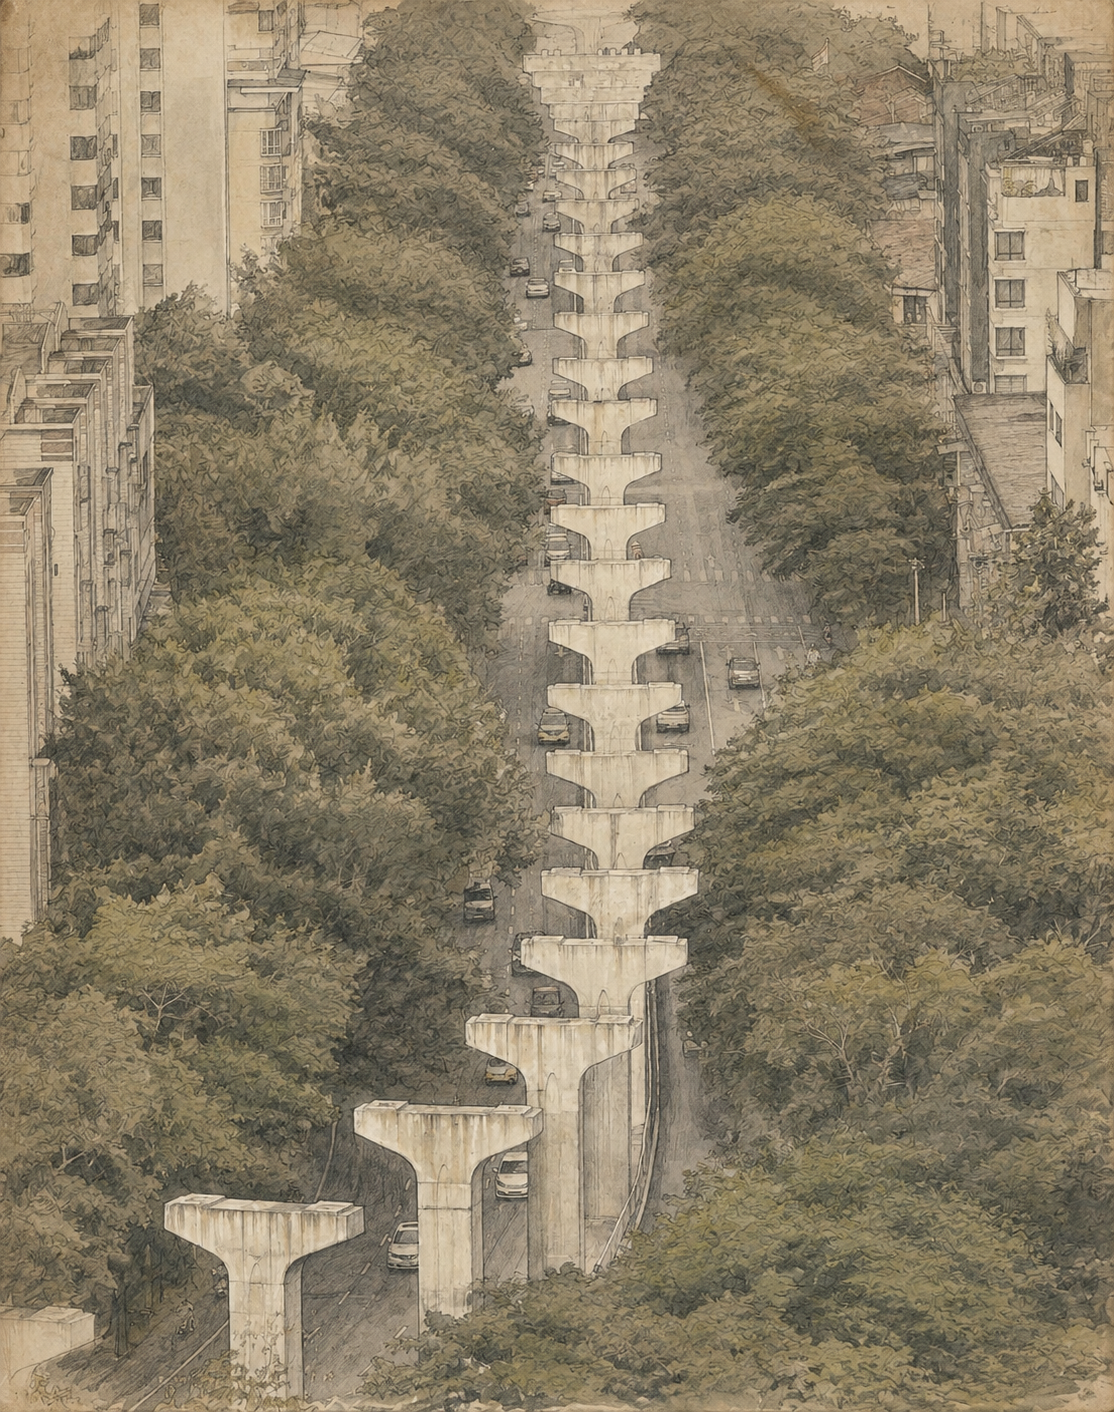
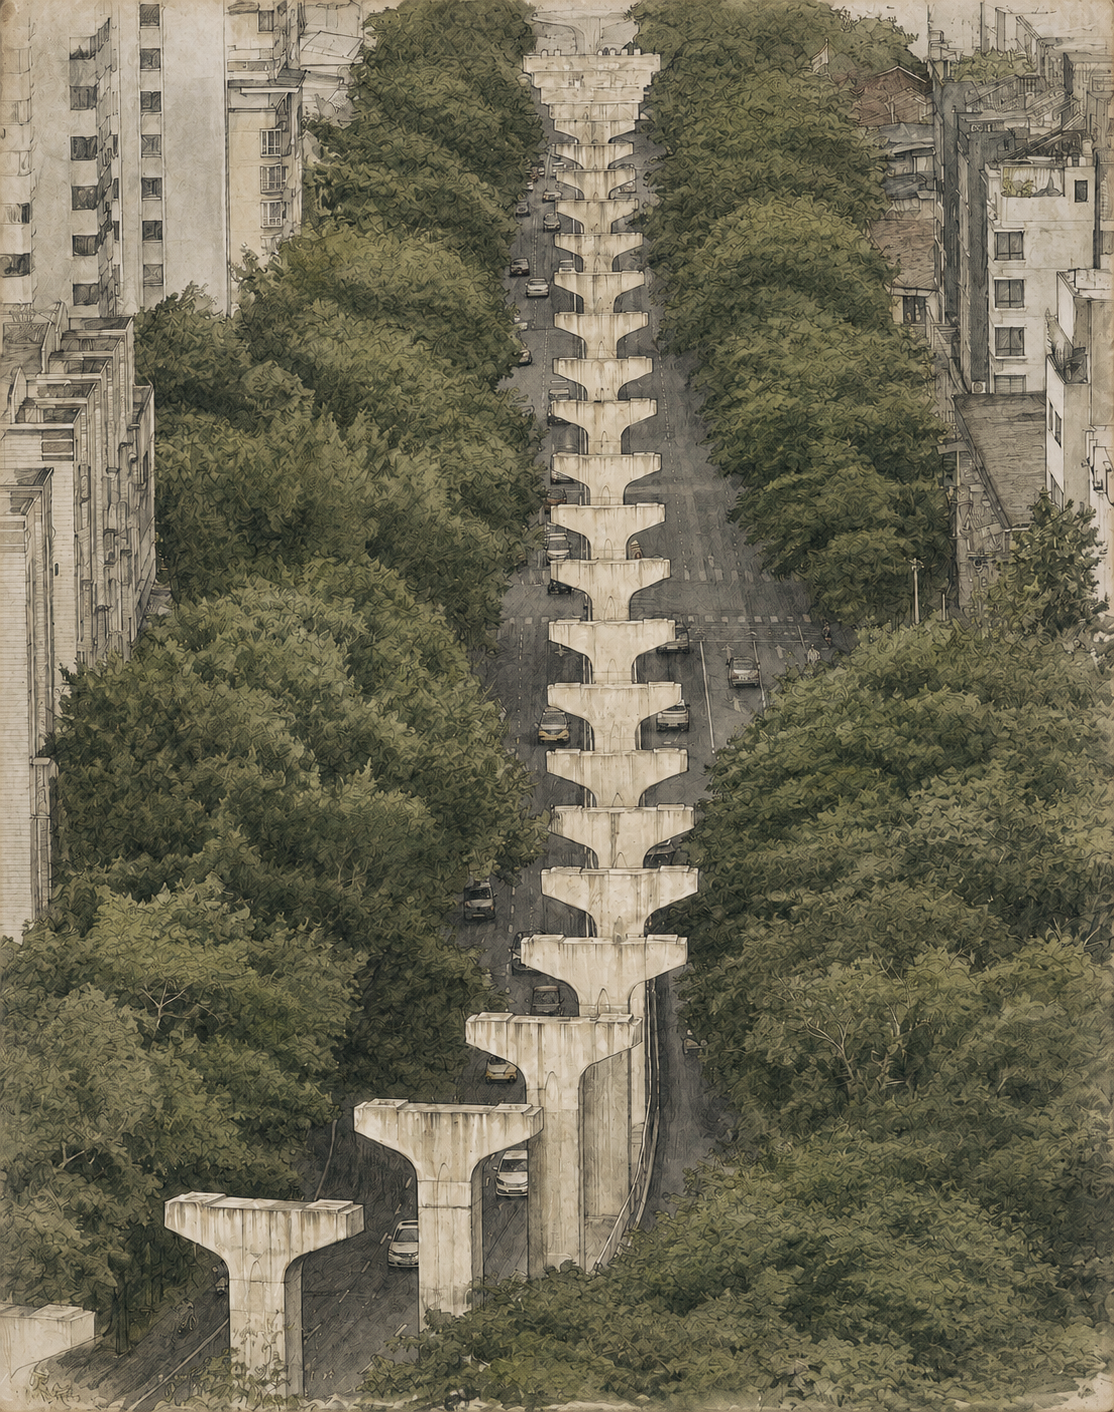
Keep selected spine study master

diff --git a/README.md b/README.md
@@ -135,10 +135,9 @@ the site into `public/media/generated/`.
 
 User-supplied photographic inputs are retained separately under
 `assets/source/original/`. The current `spine-city-viaduct-source.jpg` input and
-its `spine-archive-study-01-v2-source.png` preferred stylized master are cleared
+its canonical `spine-archive-study-01-source.png` stylized master are cleared
 for this project by the site owner's confirmed authorization and contract. They
-remain source-only until a page placement and responsive exports are selected;
-the warmer first-pass master is retained as iteration history.
+remain source-only until a page placement and responsive exports are selected.
 
 ## Optional ambience
 
